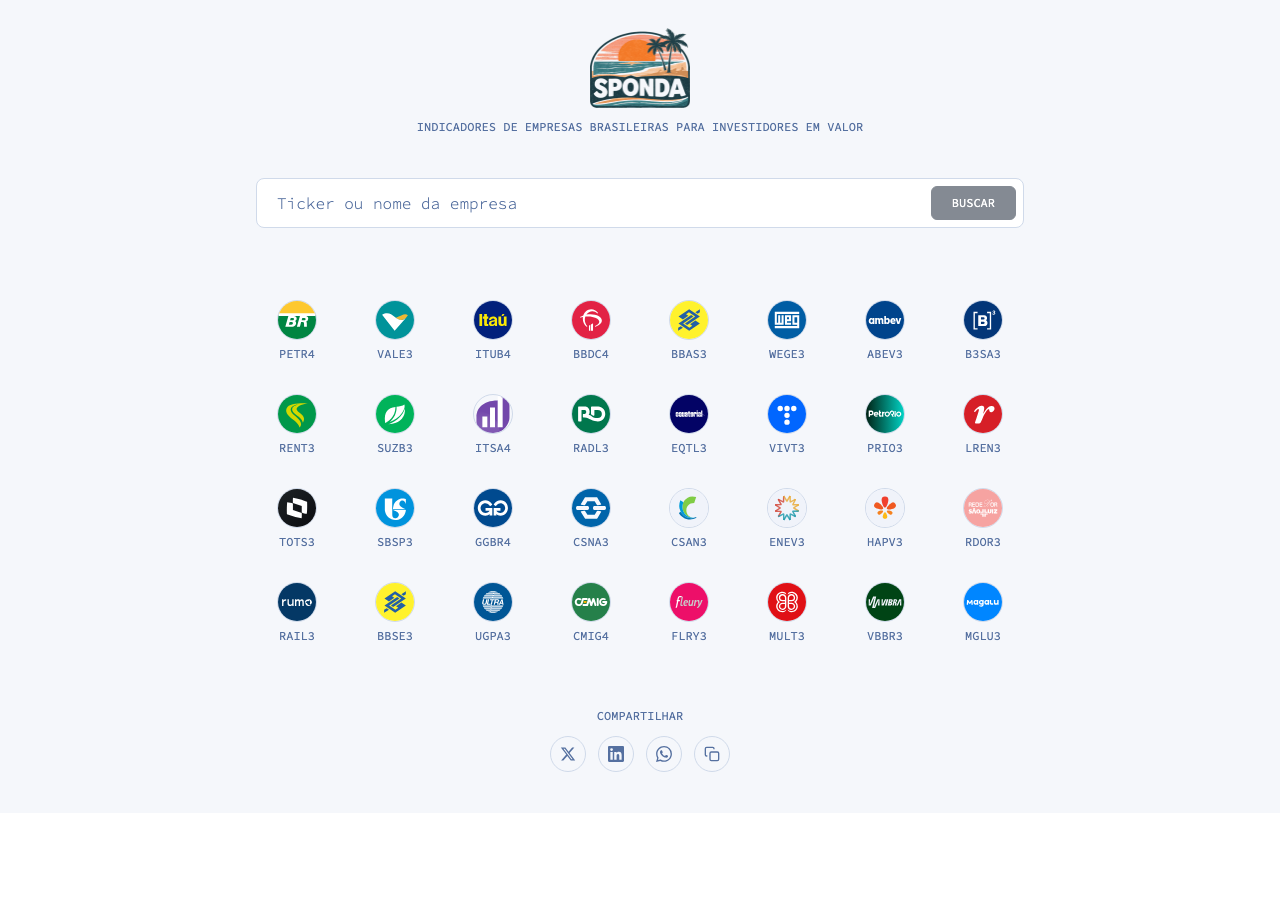
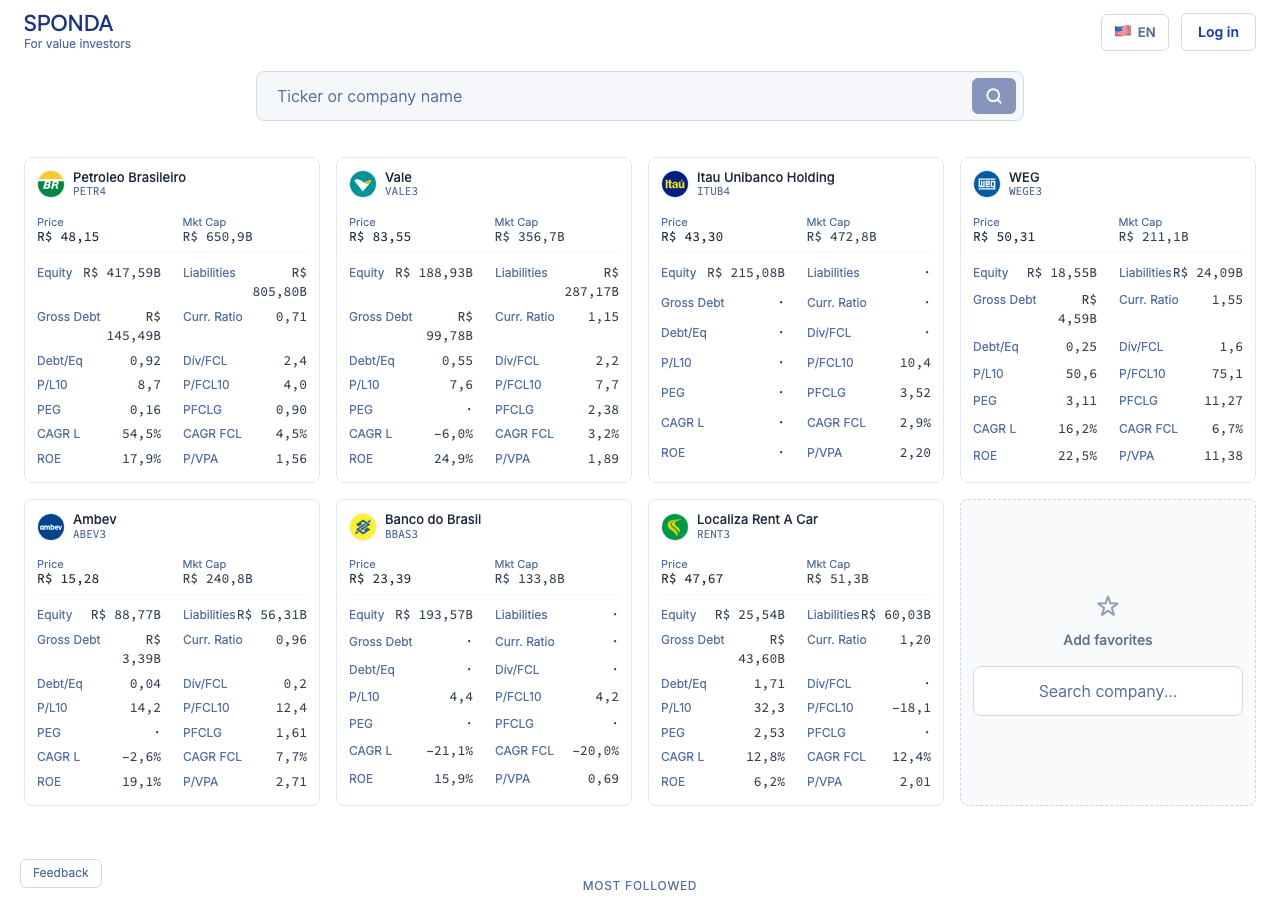
Update README with performance section and fresh screenshot (#73)
Add documentation covering trigram indexes, Redis caching strategy,
dynamic imports, and query optimizations. Update homepage screenshot
to reflect current UI with company cards.

diff --git a/README.md b/README.md
@@ -55,12 +55,42 @@ Dual-panel chart showing historical adjusted prices alongside year-end P/L (Pric
 
 **API endpoint:** `GET /api/quote/<ticker>/multiples-history/`
 
+## Performance
+
+### Database
+
+- **Trigram indexes** (pg_trgm) on `Ticker.display_name` and `symbol` for sub-millisecond ILIKE search across 27K+ tickers
+- **Composite indexes** on `CompanyAnalysis(ticker, -generated_at)`, `LookupLog(user, timestamp)`, `LookupLog(session_key, timestamp)`
+- **PostgreSQL tuning** for SSD + 2 GB RAM: `shared_buffers=512MB`, `work_mem=8MB`, `random_page_cost=1.1`
+- **pg_stat_statements** enabled for query performance monitoring
+
+### Caching (Redis)
+
+| Endpoint | TTL | What it avoids |
+|---|---|---|
+| Ticker list (27K rows) | 1 hour | Full table scan on every page load |
+| Search results | 2 min | Trigram query + sorting per keystroke |
+| PE10 metrics | 5 min | 6+ DB queries + external API call + inflation adjustment |
+| Fundamentals | 10 min | All balance sheets, earnings, cash flows + IPCA table + external API |
+
+### Frontend
+
+- **Search debounce** at 300ms to reduce API calls during typing
+- **Dynamic imports** via `next/dynamic` for CompanyMetricsCard, MultiplesChart (Recharts), CompareTab, FundamentalsTab, and CompanyAnalysis. Recharts (~100KB) only loads when the Charts tab is opened.
+- **Lazy-loaded images** on all company logos; footer logo served via Next.js `<Image>` with WebP optimization
+- **useMemo** on frequently recomputed derived state (excludeSet, sectorPeerLinks)
+
+### Query optimization
+
+- **N+1 fix** in AdminDashboard: replaced per-user loops with `annotate(Count(...))` (1,200+ queries down to 1)
+- **CompanyAnalysisView**: 3 queries reduced to 1 with `.values()`
+
 ## Stack
 
-- **Backend:** Django 5 + Django REST Framework + PostgreSQL
-- **Frontend:** React 19 + TypeScript + Vite + TanStack Query/Router
-- **Styling:** Tailwind CSS v4 (`@apply` only — no utility classes in JSX)
-- **Deploy:** Docker Compose + Nginx + GitHub Actions → `sponda.poe.ma`
+- **Backend:** Django 5 + Django REST Framework + PostgreSQL + Redis
+- **Frontend:** React 19 + TypeScript + Next.js 15 + TanStack Query
+- **Styling:** Tailwind CSS v4 (`@apply` only -- no utility classes in JSX)
+- **Deploy:** GitHub Actions CI/CD → DigitalOcean VPS
 
 ## Local Development
 
